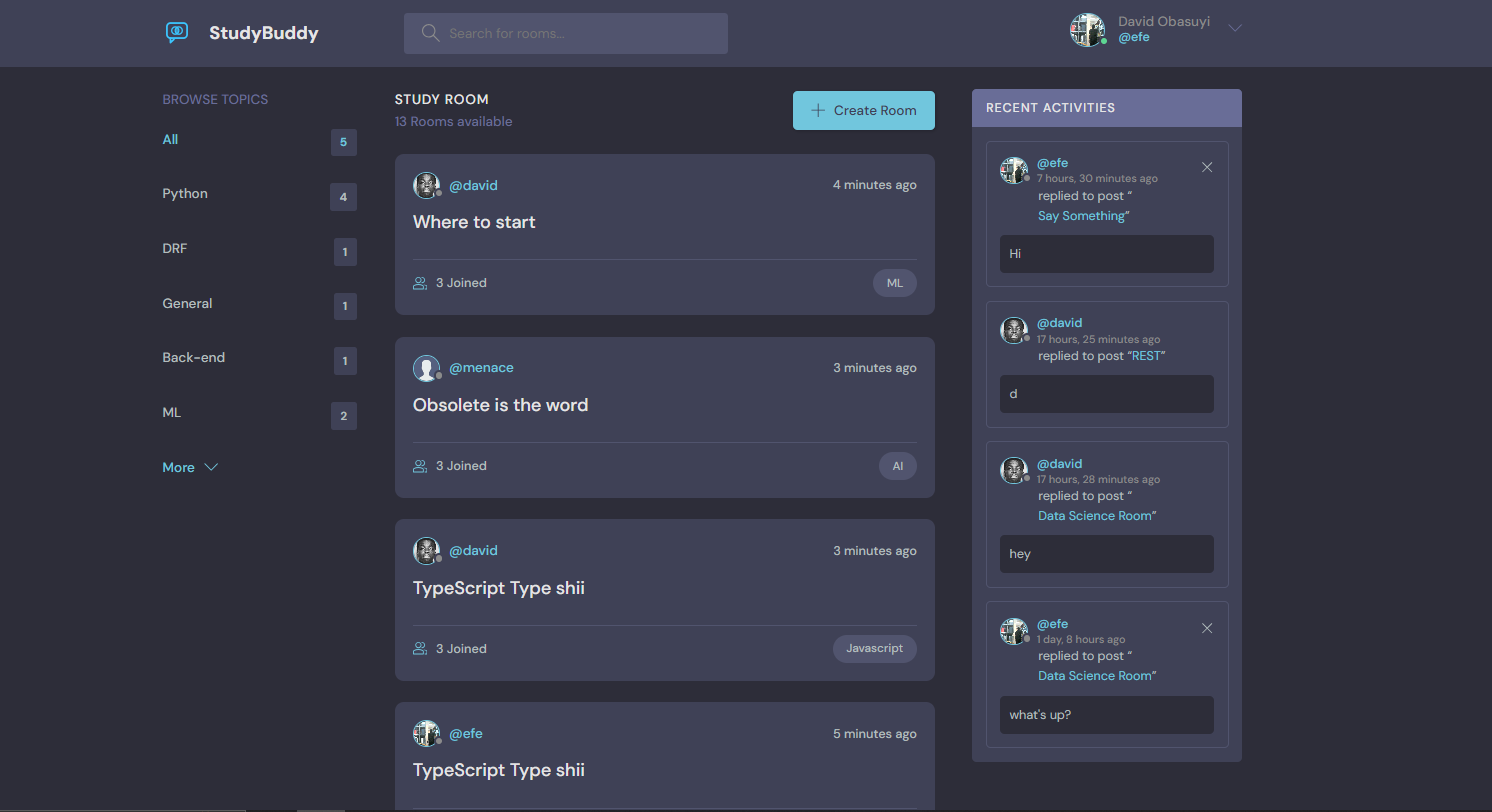
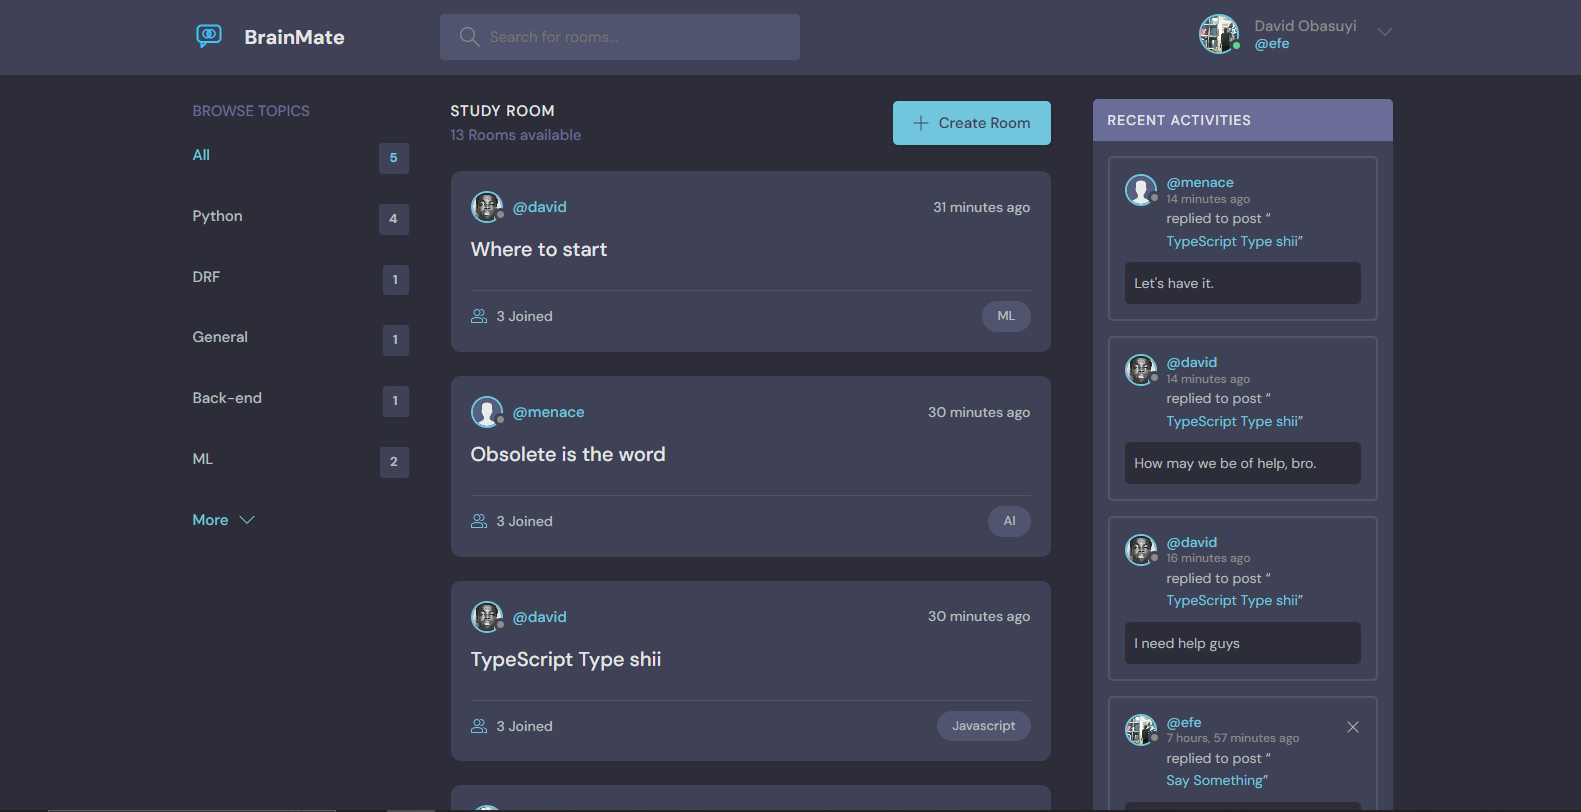
took care of sqlite

diff --git a/templates/navbar.html b/templates/navbar.html
@@ -4,7 +4,7 @@
       <div class="container">
         <a href="{% url 'home' %}" class="header__logo">
           <img src="{% static 'images/logo.svg'%}" />
-          <h1>StudyBuddy</h1>
+          <h1>BrainMate</h1>
         </a>
         <form class="header__search" method= "GET" action= "{% url 'home' %}">
           <label>
